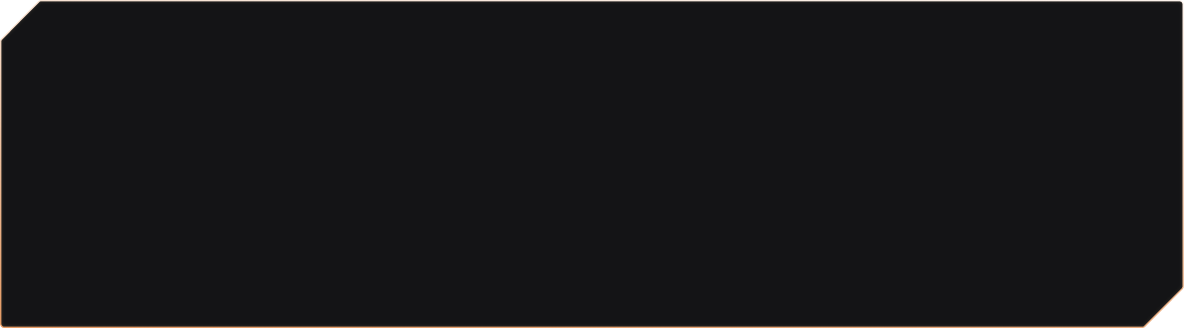
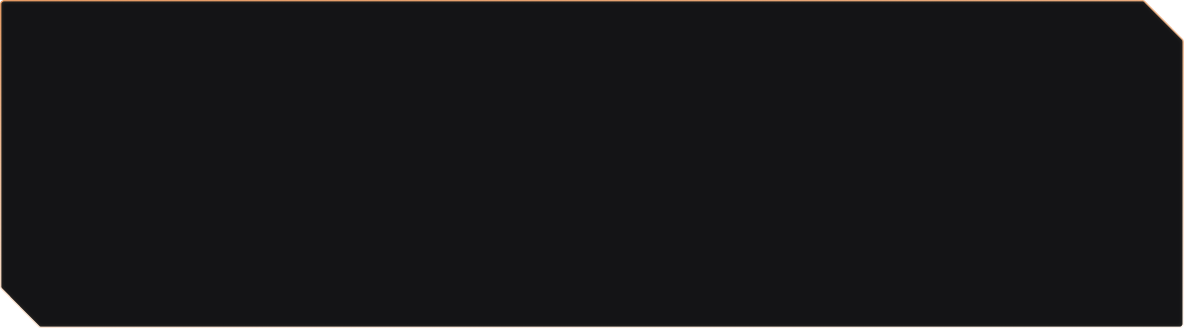
sualai

Changed region(s): [[0.0, 0.8841, 1.0, 1.0], [0.0, 0.0, 1.0, 0.122]]

diff --git a/ladingpage.html b/ladingpage.html
@@ -5,7 +5,7 @@
   <title>Bootstrap Example</title>
   <meta charset="utf-8">
   <meta name="viewport" content="width=device-width, initial-scale=1">
-  <link rel="stylesheet" href="/style.css">
+  <link rel="stylesheet" href="/landingpage/style.css">
   <link href="https://cdn.jsdelivr.net/npm/bootstrap@5.3.3/dist/css/bootstrap.min.css" rel="stylesheet">
   <link href="https://cdn.jsdelivr.net/npm/bootstrap-icons@1.10.0/font/bootstrap-icons.css" rel="stylesheet">
   <link rel="stylesheet" href="https://cdn.jsdelivr.net/npm/swiper/swiper-bundle.min.css">

diff --git a/style.css b/style.css
@@ -344,7 +344,7 @@ body {
     height: auto;
     aspect-ratio: calc(1183.82 / 328);
     box-shadow: 0 0 10px rgba(0, 0, 0, 0.5);
-    background: url('image/use-case-stake.png') no-repeat;
+    background: url('image/use-case-stake2.png') no-repeat;
     background-size: contain;
     margin-left: auto;
   }
